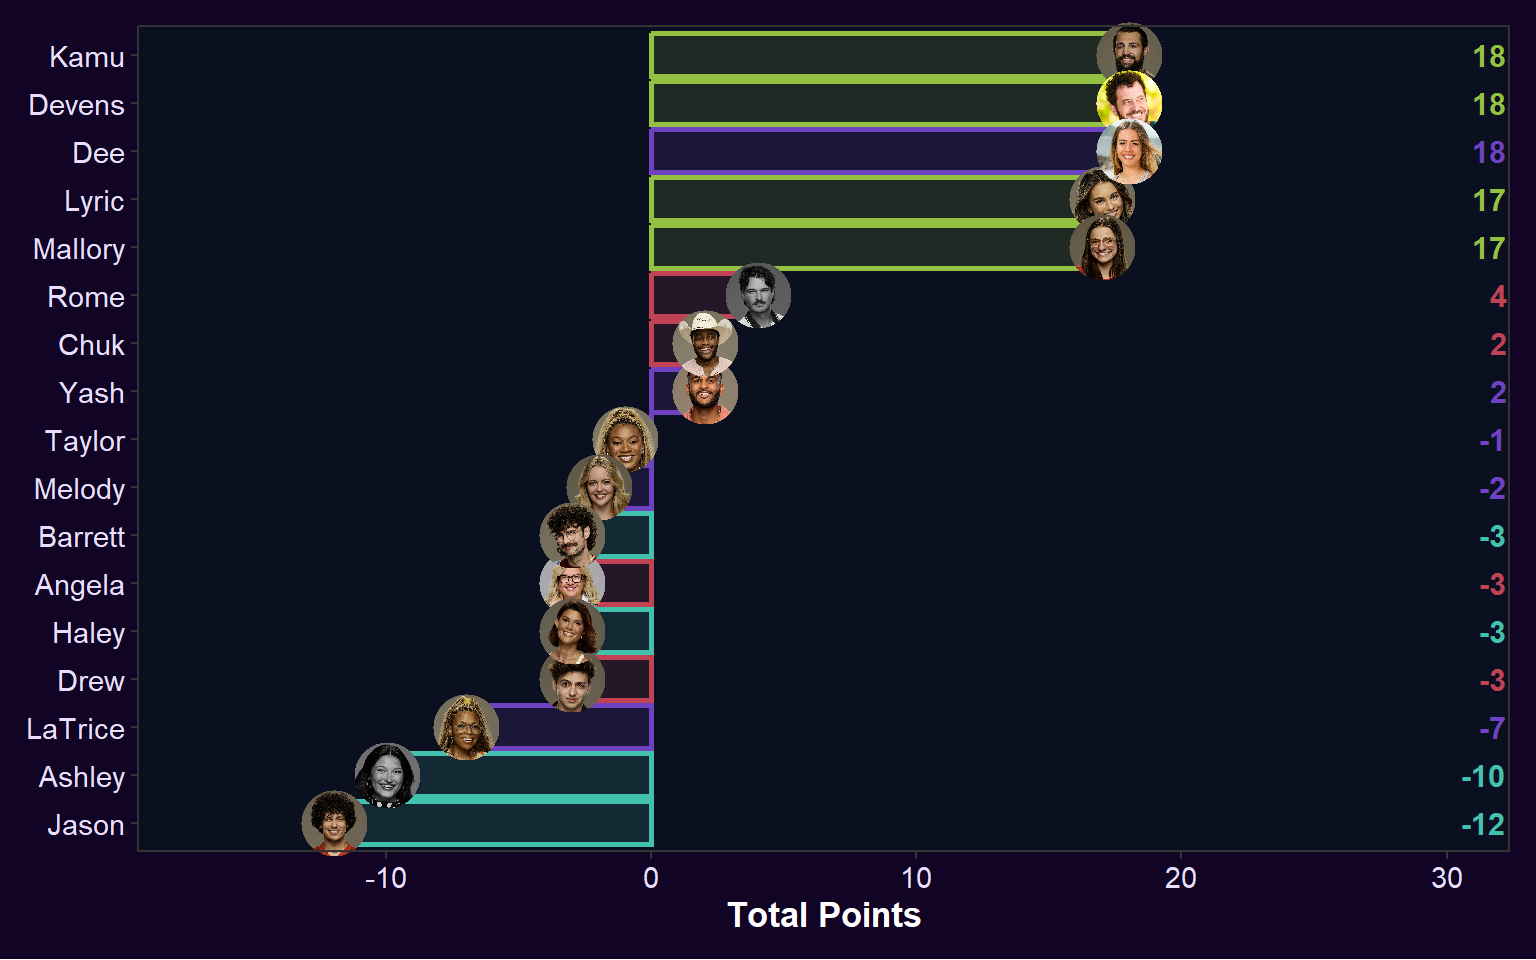
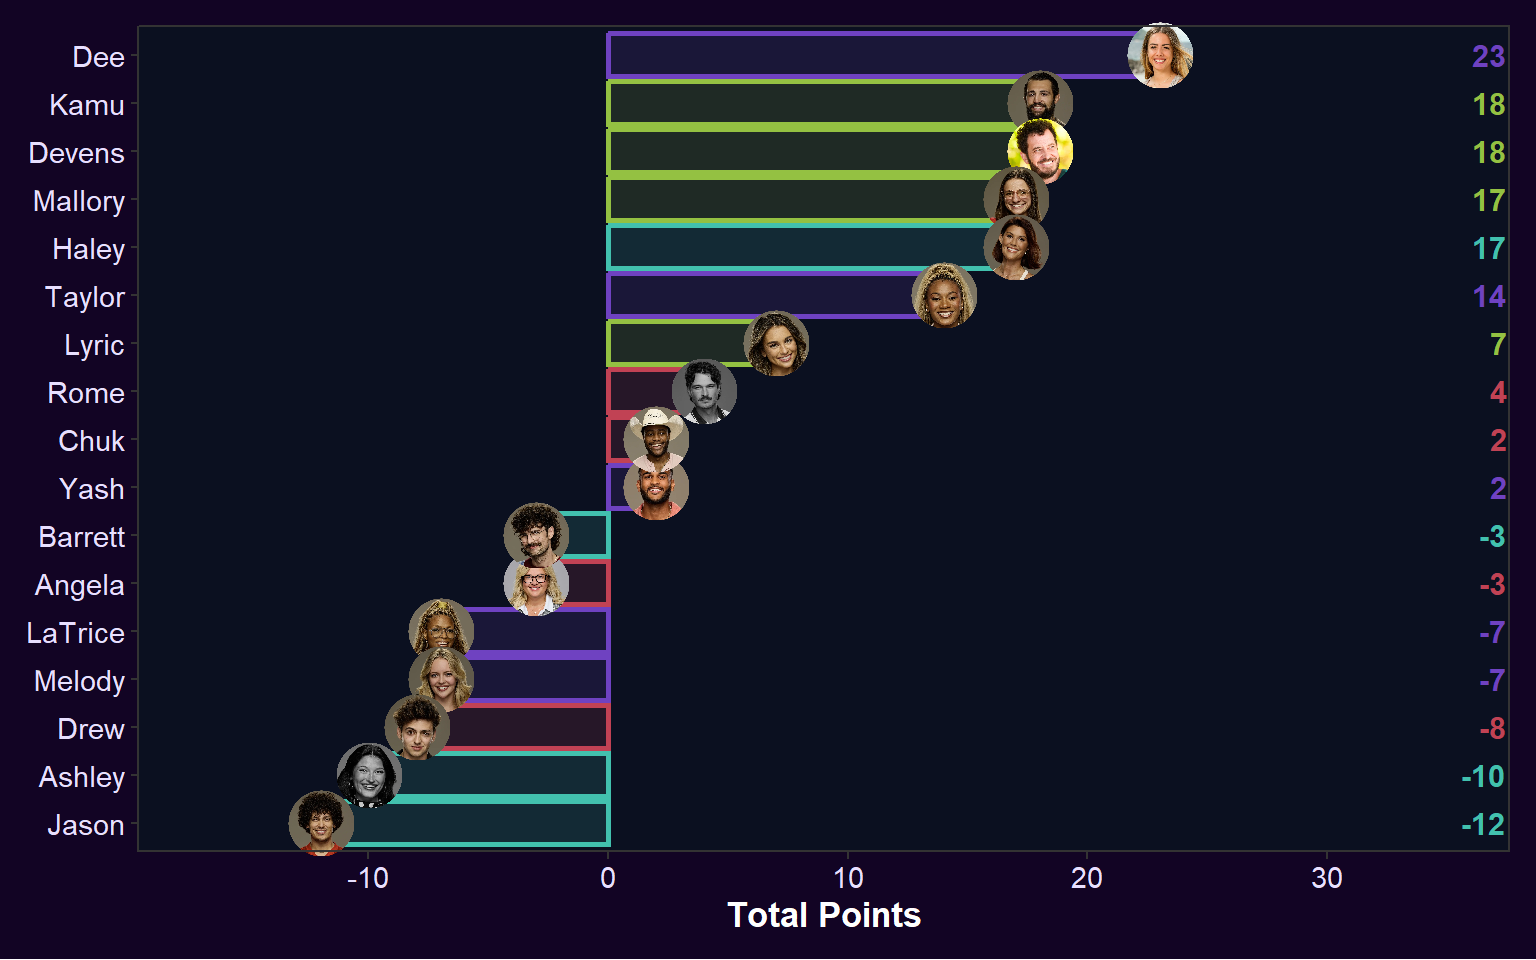
Aug 3

diff --git a/index.html b/index.html
@@ -120,18 +120,18 @@ grid-auto-rows: minmax(0, 1fr);">
 <td style="text-align: right;">2</td>
 <td style="text-align: right;">3</td>
 <td style="text-align: right;">1</td>
-<td style="text-align: right;">4</td>
+<td style="text-align: right;">5</td>
 </tr>
 <tr class="even">
 <td style="text-align: left;">Christine</td>
 <td style="text-align: right;">0</td>
 <td style="text-align: right;">0</td>
 <td style="text-align: right;">0</td>
-<td style="text-align: right;">1</td>
+<td style="text-align: right;">2</td>
 </tr>
 <tr class="odd">
 <td style="text-align: left;">Emily</td>
-<td style="text-align: right;">0</td>
+<td style="text-align: right;">1</td>
 <td style="text-align: right;">0</td>
 <td style="text-align: right;">1</td>
 <td style="text-align: right;">3</td>
@@ -139,9 +139,9 @@ grid-auto-rows: minmax(0, 1fr);">
 <tr class="even">
 <td style="text-align: left;">Jennet</td>
 <td style="text-align: right;">1</td>
-<td style="text-align: right;">0</td>
 <td style="text-align: right;">1</td>
-<td style="text-align: right;">4</td>
+<td style="text-align: right;">1</td>
+<td style="text-align: right;">6</td>
 </tr>
 </tbody>
 </table>
@@ -901,6 +901,70 @@ grid-auto-rows: minmax(0, 1fr);">
 <td style="text-align: left;">Bryan</td>
 <td style="text-align: left;">Shoutout During Live Evicition</td>
 <td style="text-align: right;">-1</td>
+</tr>
+<tr class="odd">
+<td style="text-align: left;">July 31 2026</td>
+<td style="text-align: right;">4</td>
+<td style="text-align: left;">Haley</td>
+<td style="text-align: left;">Emily</td>
+<td style="text-align: left;">Wins HOH</td>
+<td style="text-align: right;">20</td>
+</tr>
+<tr class="even">
+<td style="text-align: left;">July 31 2026</td>
+<td style="text-align: right;">4</td>
+<td style="text-align: left;">Dee</td>
+<td style="text-align: left;">Jennet</td>
+<td style="text-align: left;">Wins a Power</td>
+<td style="text-align: right;">5</td>
+</tr>
+<tr class="odd">
+<td style="text-align: left;">46235.0</td>
+<td style="text-align: right;">4</td>
+<td style="text-align: left;">Melody</td>
+<td style="text-align: left;">Jennet</td>
+<td style="text-align: left;">Gets Nominated</td>
+<td style="text-align: right;">-5</td>
+</tr>
+<tr class="even">
+<td style="text-align: left;">46235.0</td>
+<td style="text-align: right;">4</td>
+<td style="text-align: left;">Drew</td>
+<td style="text-align: left;">Christine</td>
+<td style="text-align: left;">Gets Nominated</td>
+<td style="text-align: right;">-5</td>
+</tr>
+<tr class="odd">
+<td style="text-align: left;">46235.0</td>
+<td style="text-align: right;">4</td>
+<td style="text-align: left;">Taylor</td>
+<td style="text-align: left;">Jennet</td>
+<td style="text-align: left;">Gets Nominated</td>
+<td style="text-align: right;">-5</td>
+</tr>
+<tr class="even">
+<td style="text-align: left;">46235.0</td>
+<td style="text-align: right;">4</td>
+<td style="text-align: left;">Taylor</td>
+<td style="text-align: left;">Jennet</td>
+<td style="text-align: left;">Wins Veto</td>
+<td style="text-align: right;">10</td>
+</tr>
+<tr class="odd">
+<td style="text-align: left;">46237.0</td>
+<td style="text-align: right;">4</td>
+<td style="text-align: left;">Taylor</td>
+<td style="text-align: left;">Jennet</td>
+<td style="text-align: left;">Uses the Veto on Themselves</td>
+<td style="text-align: right;">10</td>
+</tr>
+<tr class="even">
+<td style="text-align: left;">46237.0</td>
+<td style="text-align: right;">4</td>
+<td style="text-align: left;">Lyric</td>
+<td style="text-align: left;">Bryan</td>
+<td style="text-align: left;">Renominated</td>
+<td style="text-align: right;">-10</td>
 </tr>
 </tbody>
 </table>
